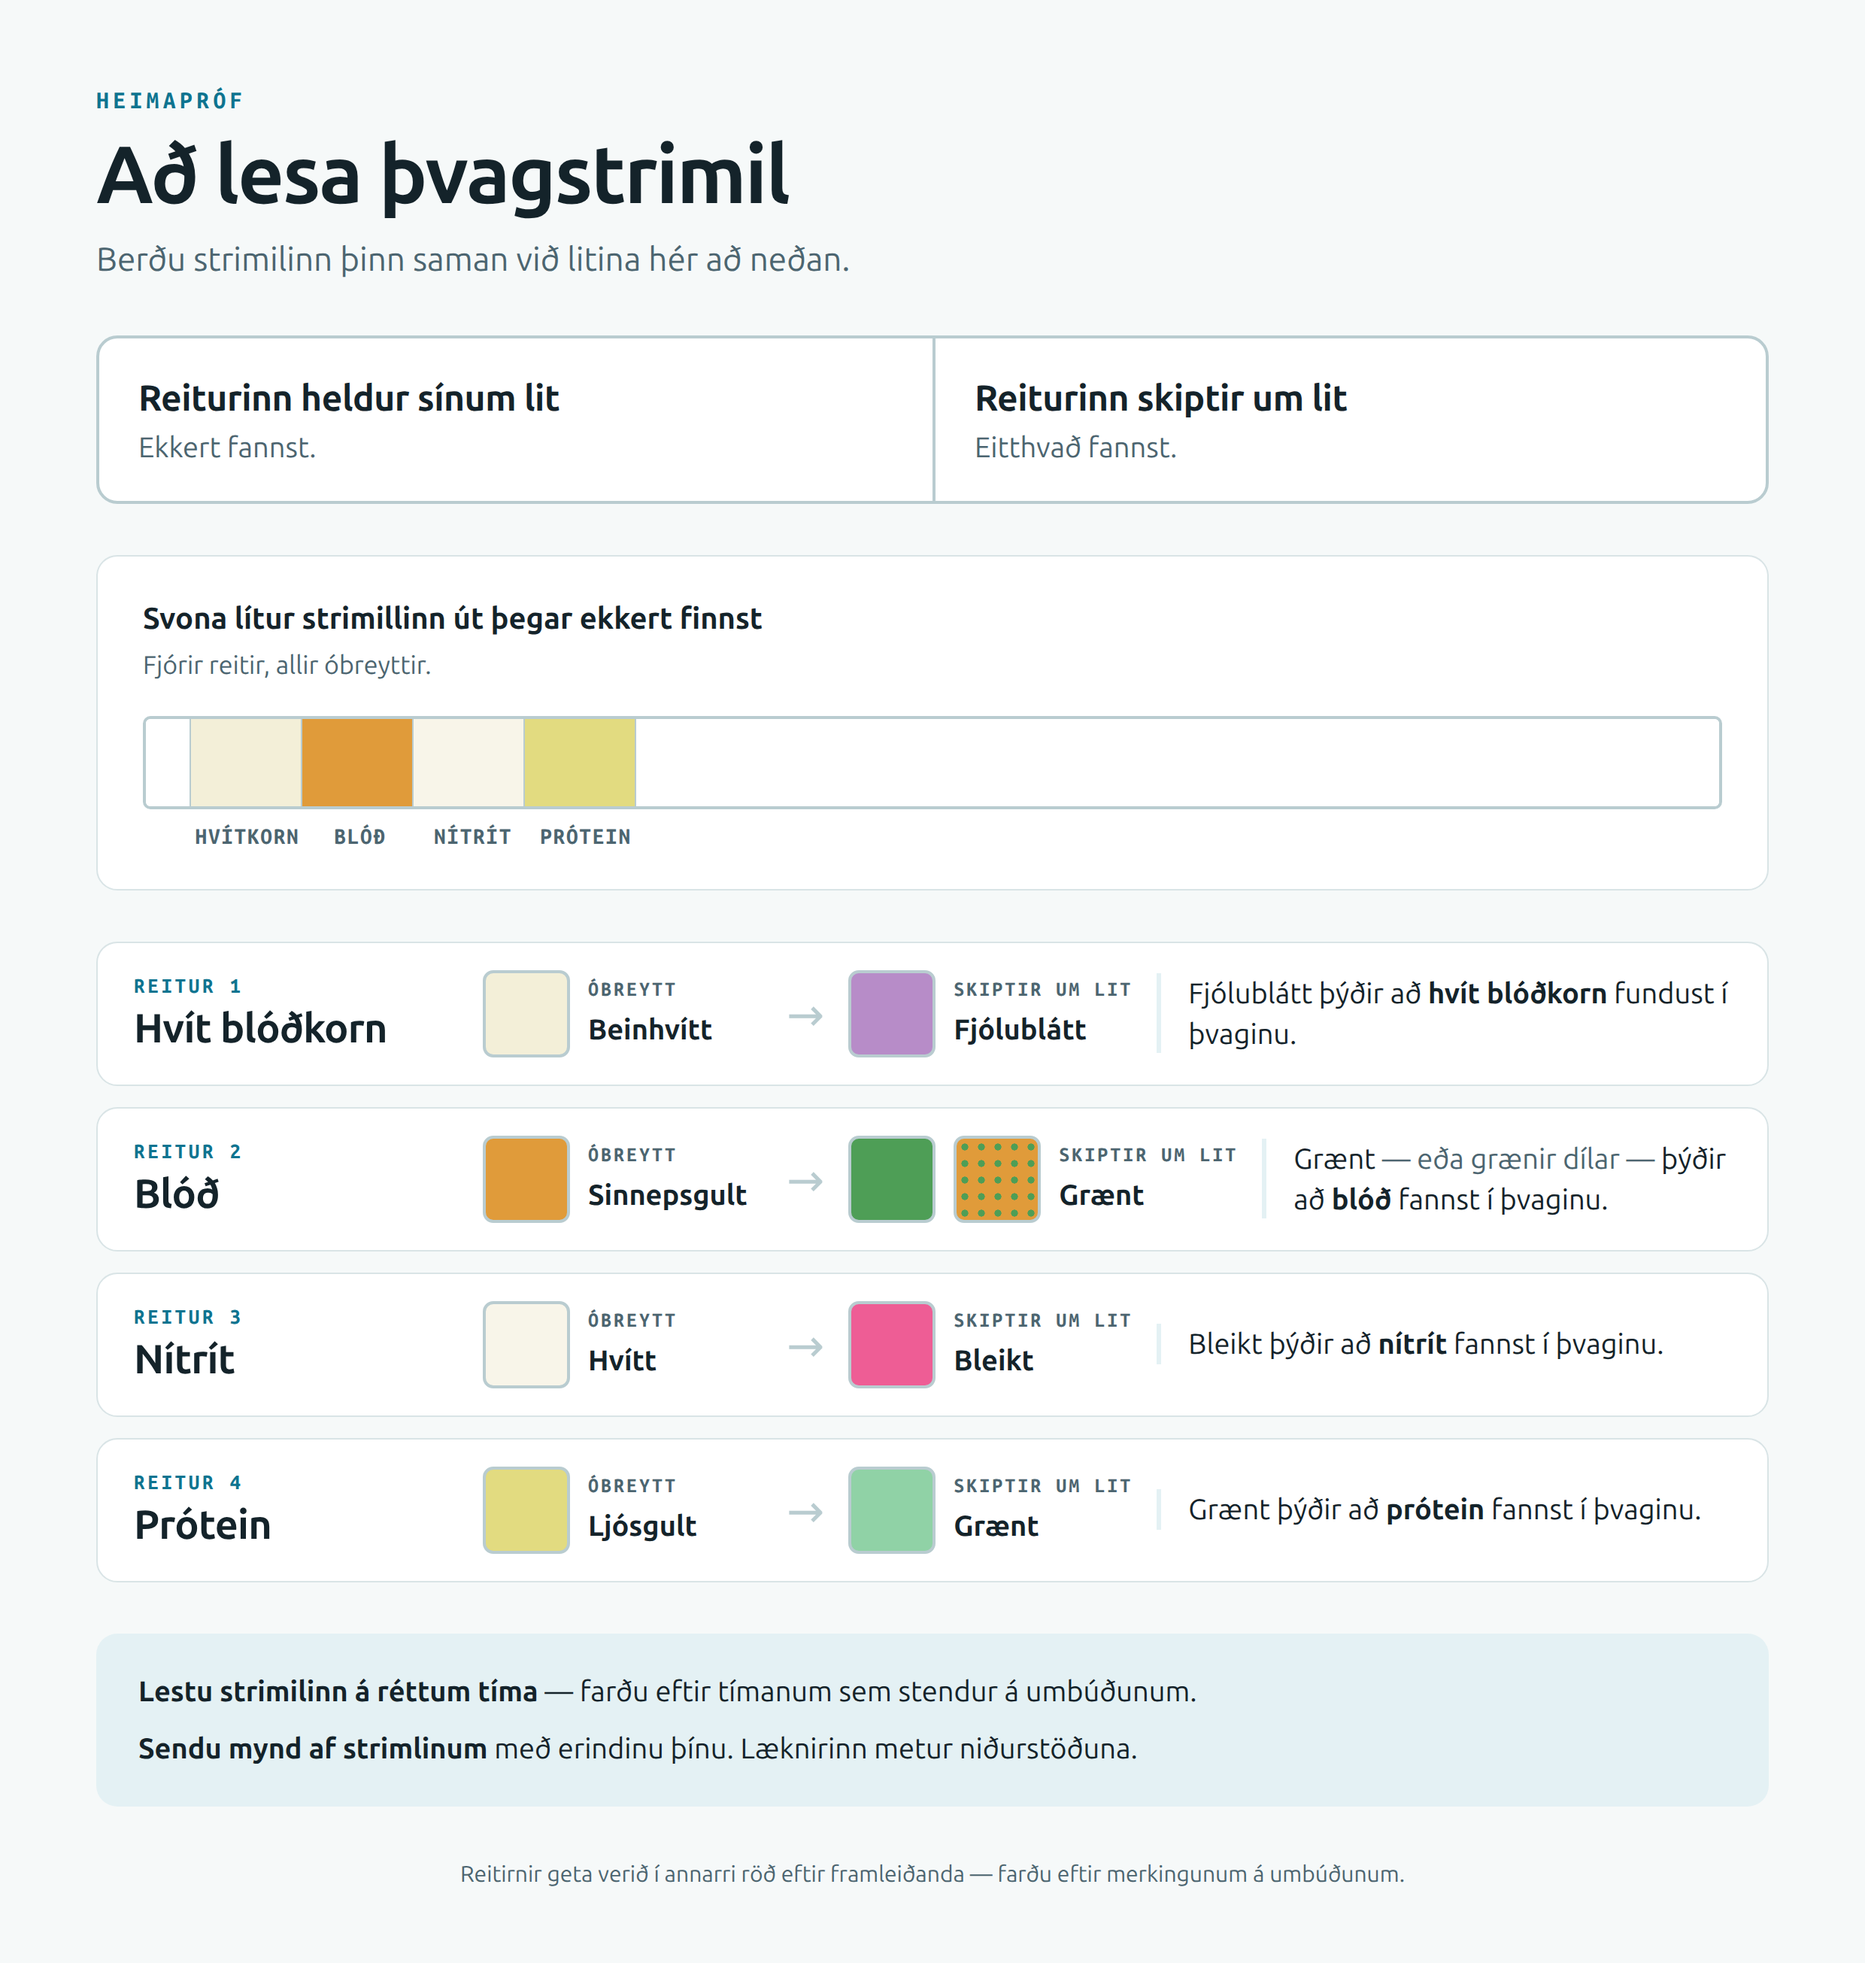
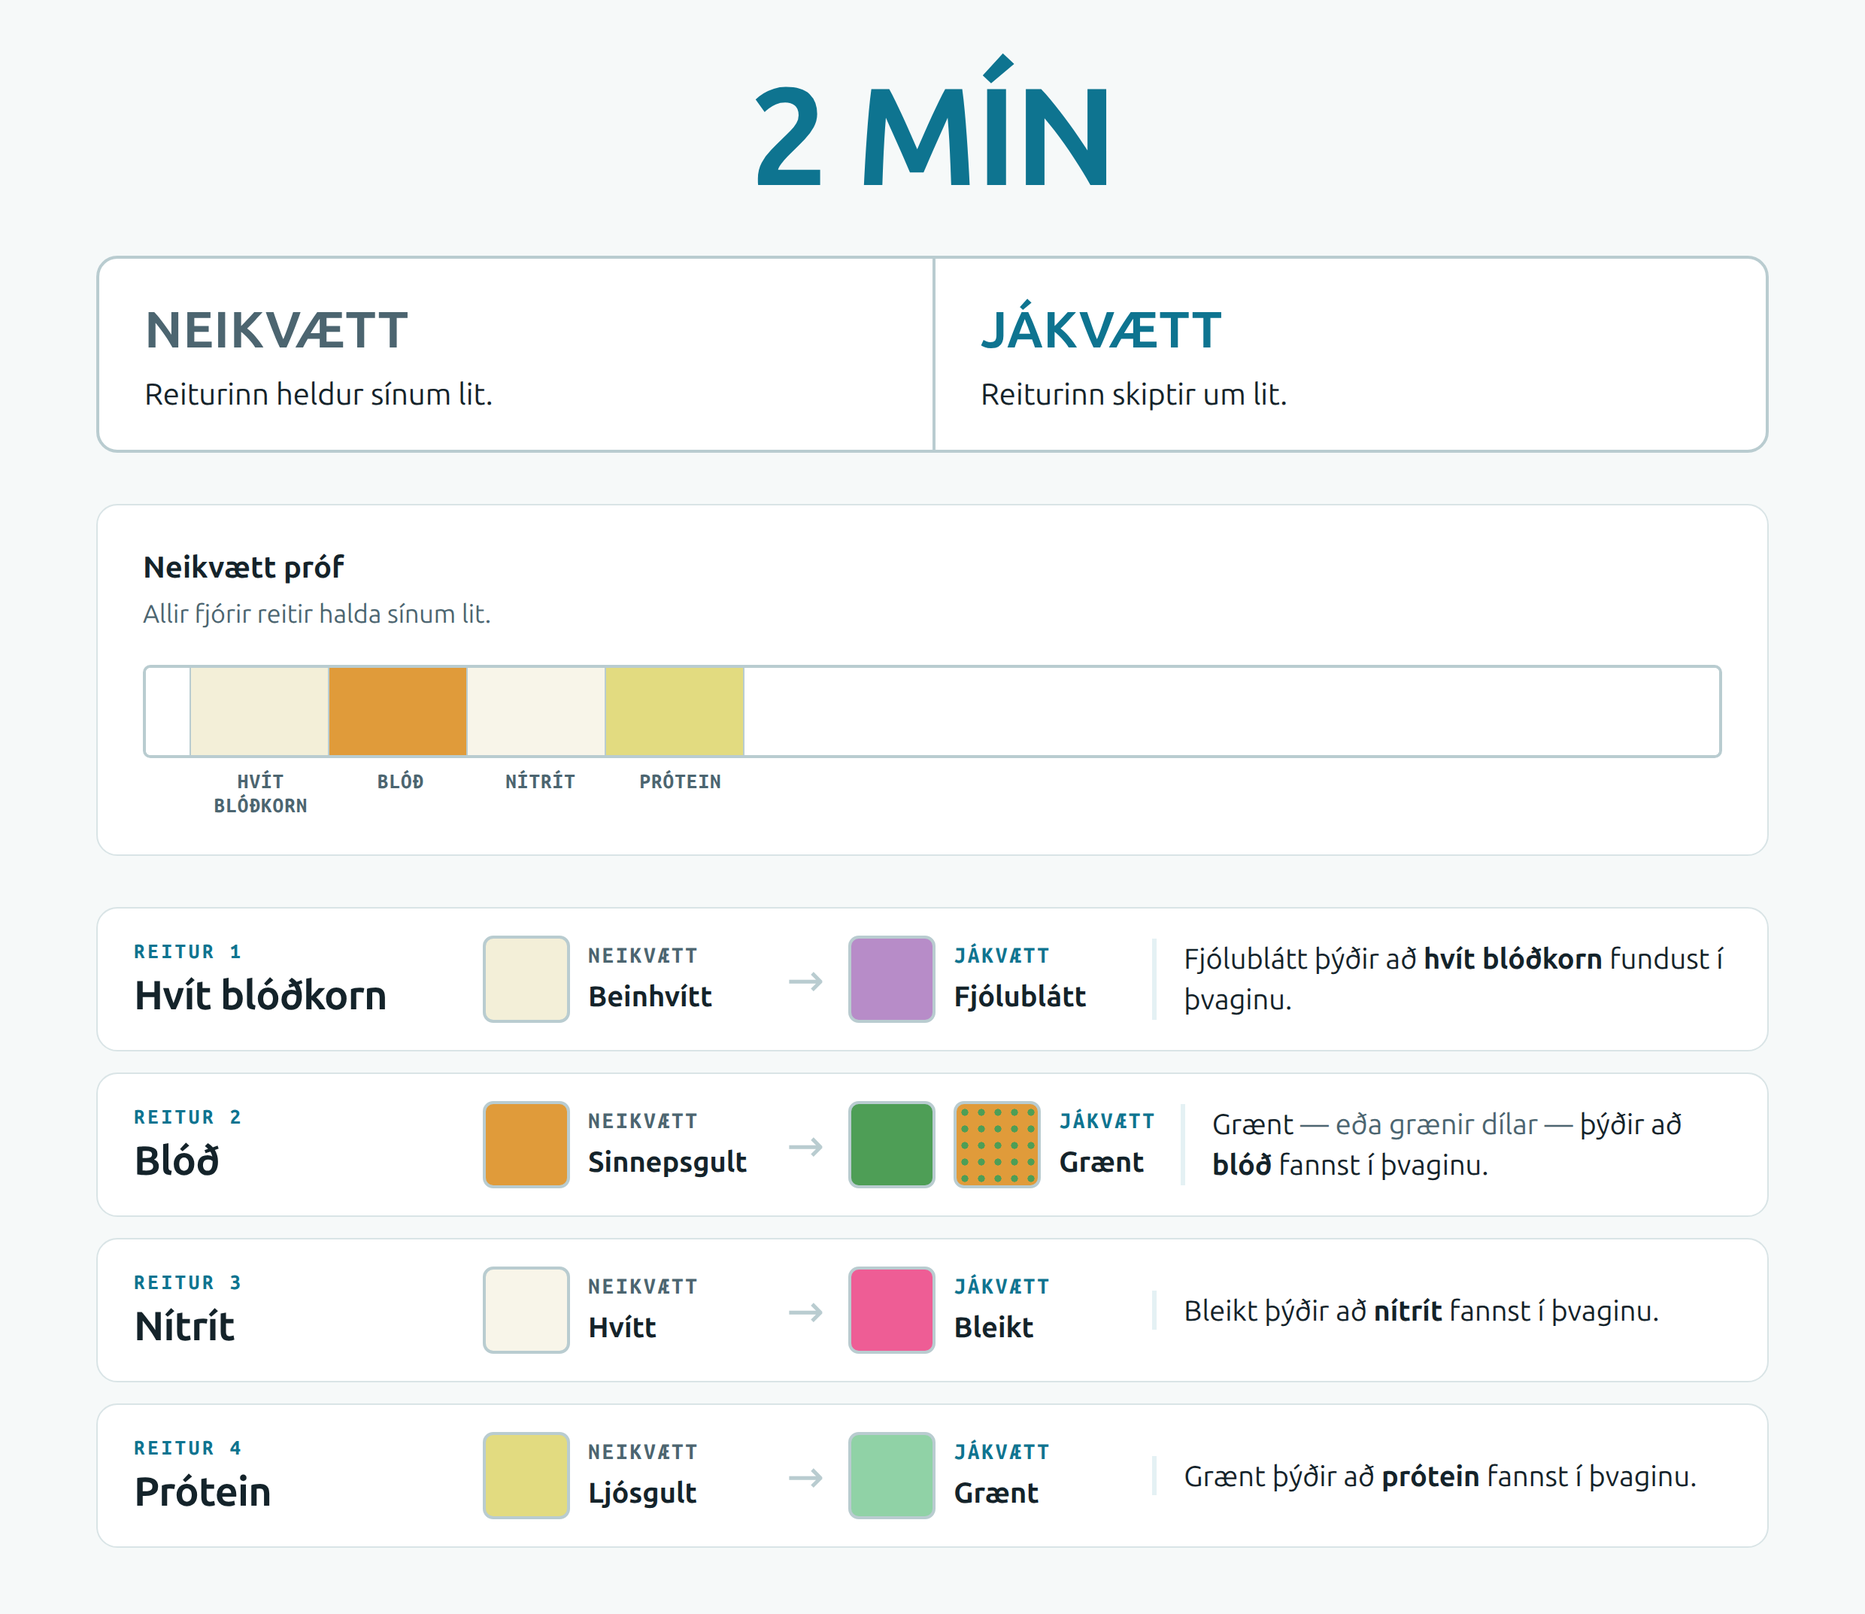
Docs: þvagstrimill sheet — 2 mín hero, explicit jákvætt/neikvætt
- Drop the header (eyebrow, title, lede) and the closing instructions box;
  the sheet is now a pure reading diagram.
- "2 mín" read time as the hero, matching the CRP test card.
- Say "Neikvætt"/"Jákvætt" outright on the rule box and on every row
  instead of "óbreytt"/"skiptir um lit".
- "Hvít blóðkorn" everywhere, including the strip label.

diff --git a/docs/thvagstrimill.html b/docs/thvagstrimill.html
@@ -24,7 +24,7 @@
   body {
     width: 1240px;
     margin: 0;
-    padding: 56px 64px 48px;
+    padding: 44px 64px 44px;
     background: var(--ground);
     color: var(--ink);
     font-family: "Ubuntu", "Ubuntu Sans", "Segoe UI", system-ui, sans-serif;
@@ -35,29 +35,16 @@
 
   .sheet { display: flex; flex-direction: column; gap: 34px; }
 
-  /* ---------- Header ---------- */
-  .eyebrow {
-    font-family: "Ubuntu Mono", monospace;
-    font-size: 15px;
+  /* ---------- Read time ---------- */
+  .timing {
+    font-size: 92px;
+    line-height: 1;
     font-weight: 700;
-    letter-spacing: 0.18em;
+    letter-spacing: -0.02em;
     text-transform: uppercase;
     color: var(--accent);
-    margin: 0 0 10px;
-  }
-  h1 {
-    font-size: 54px;
-    line-height: 1.02;
-    font-weight: 700;
-    letter-spacing: -0.022em;
+    text-align: center;
     margin: 0;
-    text-wrap: balance;
-  }
-  .lede {
-    font-size: 22px;
-    color: var(--ink-soft);
-    margin: 12px 0 0;
-    max-width: 62ch;
   }
 
   /* ---------- The one rule ---------- */
@@ -70,14 +57,19 @@
     overflow: hidden;
     background: var(--surface);
   }
-  .rule > div { padding: 22px 26px; }
+  .rule > div { padding: 22px 30px; }
   .rule > div + div { border-left: 2px solid var(--line-strong); }
   .rule b {
     display: block;
-    font-size: 24px;
-    letter-spacing: -0.01em;
+    font-size: 34px;
+    font-weight: 700;
+    letter-spacing: 0.01em;
+    text-transform: uppercase;
+    margin-bottom: 2px;
   }
-  .rule span { color: var(--ink-soft); font-size: 19px; }
+  .rule .neg b { color: var(--ink-soft); }
+  .rule .pos b { color: var(--accent); }
+  .rule span { color: var(--ink); font-size: 20px; }
 
   /* ---------- Reference strip ---------- */
   .strip-card {
@@ -101,21 +93,23 @@
     height: 62px;
     background: #fff;
   }
-  .strip .pad { width: 74px; border-right: 1px solid var(--line-strong); }
+  .strip .pad { width: 92px; border-right: 1px solid var(--line-strong); }
   .strip .handle { flex: 1; background: #fff; }
   .strip .lead { width: 30px; background: #fff; border-right: 1px solid var(--line-strong); }
   .strip-labels {
     display: flex;
+    align-items: flex-start;
     margin-top: 8px;
     font-family: "Ubuntu Mono", monospace;
-    font-size: 14px;
+    font-size: 13px;
+    line-height: 1.25;
     font-weight: 700;
-    letter-spacing: 0.06em;
+    letter-spacing: 0.04em;
     text-transform: uppercase;
     color: var(--ink-soft);
   }
   .strip-labels .lead { width: 32px; }
-  .strip-labels span { width: 75px; text-align: center; }
+  .strip-labels span { width: 93px; text-align: center; }
 
   /* ---------- Rows ---------- */
   .rows { display: flex; flex-direction: column; gap: 14px; }
@@ -156,13 +150,14 @@
   .state-text small {
     display: block;
     font-family: "Ubuntu Mono", monospace;
-    font-size: 12.5px;
+    font-size: 14px;
     font-weight: 700;
-    letter-spacing: 0.12em;
+    letter-spacing: 0.1em;
     text-transform: uppercase;
-    color: var(--ink-soft);
     margin-bottom: 2px;
   }
+  .state-text small.neg { color: var(--ink-soft); }
+  .state-text small.pos { color: var(--accent); }
   .state-text b { font-size: 19px; font-weight: 700; }
   .arrow { font-size: 30px; color: var(--line-strong); line-height: 1; }
   .meaning {
@@ -176,46 +171,29 @@
   }
   .meaning em { font-style: normal; color: var(--ink-soft); }
 
-  /* ---------- Footer ---------- */
-  .notes {
-    background: var(--accent-soft);
-    border-radius: 14px;
-    padding: 24px 28px;
-    display: flex;
-    flex-direction: column;
-    gap: 10px;
-  }
-  .notes p { margin: 0; font-size: 19px; }
-  .notes p b { font-weight: 700; }
-  .fine {
-    font-size: 15px;
-    color: var(--ink-soft);
-    margin: 0;
-    text-align: center;
-  }
+  
+  
+  
+  
 </style>
 
 <div class="sheet">
-  <header>
-    <p class="eyebrow">Heimapróf</p>
-    <h1>Að lesa þvagstrimil</h1>
-    <p class="lede">Berðu strimilinn þinn saman við litina hér að neðan.</p>
-  </header>
+  <p class="timing">2 mín</p>
 
   <section class="rule">
-    <div>
-      <b>Reiturinn heldur sínum lit</b>
-      <span>Ekkert fannst.</span>
+    <div class="neg">
+      <b>Neikvætt</b>
+      <span>Reiturinn heldur sínum lit.</span>
     </div>
-    <div>
-      <b>Reiturinn skiptir um lit</b>
-      <span>Eitthvað fannst.</span>
+    <div class="pos">
+      <b>Jákvætt</b>
+      <span>Reiturinn skiptir um lit.</span>
     </div>
   </section>
 
   <section class="strip-card">
-    <p class="strip-title">Svona lítur strimillinn út þegar ekkert finnst</p>
-    <p class="strip-sub">Fjórir reitir, allir óbreyttir.</p>
+    <p class="strip-title">Neikvætt próf</p>
+    <p class="strip-sub">Allir fjórir reitir halda sínum lit.</p>
     <div class="strip">
       <div class="lead"></div>
       <div class="pad" style="background: var(--pad-leu-neg)"></div>
@@ -226,7 +204,7 @@
     </div>
     <div class="strip-labels">
       <div class="lead"></div>
-      <span>Hvítkorn</span>
+      <span>Hvít blóðkorn</span>
       <span>Blóð</span>
       <span>Nítrít</span>
       <span>Prótein</span>
@@ -243,7 +221,7 @@
         <div class="state">
           <div class="chip" style="background: var(--pad-leu-neg)"></div>
           <div class="state-text">
-            <small>Óbreytt</small>
+            <small class="neg">Neikvætt</small>
             <b>Beinhvítt</b>
           </div>
         </div>
@@ -251,7 +229,7 @@
         <div class="state">
           <div class="chip" style="background: var(--pad-leu-pos)"></div>
           <div class="state-text">
-            <small>Skiptir um lit</small>
+            <small class="pos">Jákvætt</small>
             <b>Fjólublátt</b>
           </div>
         </div>
@@ -268,7 +246,7 @@
         <div class="state">
           <div class="chip" style="background: var(--pad-blo-neg)"></div>
           <div class="state-text">
-            <small>Óbreytt</small>
+            <small class="neg">Neikvætt</small>
             <b>Sinnepsgult</b>
           </div>
         </div>
@@ -277,7 +255,7 @@
           <div class="chip" style="background: var(--pad-blo-pos)"></div>
           <div class="chip spots" style="background-color: var(--pad-blo-neg)"></div>
           <div class="state-text">
-            <small>Skiptir um lit</small>
+            <small class="pos">Jákvætt</small>
             <b>Grænt</b>
           </div>
         </div>
@@ -294,7 +272,7 @@
         <div class="state">
           <div class="chip" style="background: var(--pad-nit-neg)"></div>
           <div class="state-text">
-            <small>Óbreytt</small>
+            <small class="neg">Neikvætt</small>
             <b>Hvítt</b>
           </div>
         </div>
@@ -302,7 +280,7 @@
         <div class="state">
           <div class="chip" style="background: var(--pad-nit-pos)"></div>
           <div class="state-text">
-            <small>Skiptir um lit</small>
+            <small class="pos">Jákvætt</small>
             <b>Bleikt</b>
           </div>
         </div>
@@ -319,7 +297,7 @@
         <div class="state">
           <div class="chip" style="background: var(--pad-pro-neg)"></div>
           <div class="state-text">
-            <small>Óbreytt</small>
+            <small class="neg">Neikvætt</small>
             <b>Ljósgult</b>
           </div>
         </div>
@@ -327,7 +305,7 @@
         <div class="state">
           <div class="chip" style="background: var(--pad-pro-pos)"></div>
           <div class="state-text">
-            <small>Skiptir um lit</small>
+            <small class="pos">Jákvætt</small>
             <b>Grænt</b>
           </div>
         </div>
@@ -336,10 +314,4 @@
     </div>
   </section>
 
-  <section class="notes">
-    <p><b>Lestu strimilinn á réttum tíma</b> — farðu eftir tímanum sem stendur á umbúðunum.</p>
-    <p><b>Sendu mynd af strimlinum</b> með erindinu þínu. Læknirinn metur niðurstöðuna.</p>
-  </section>
-
-  <p class="fine">Reitirnir geta verið í annarri röð eftir framleiðanda — farðu eftir merkingunum á umbúðunum.</p>
 </div>
